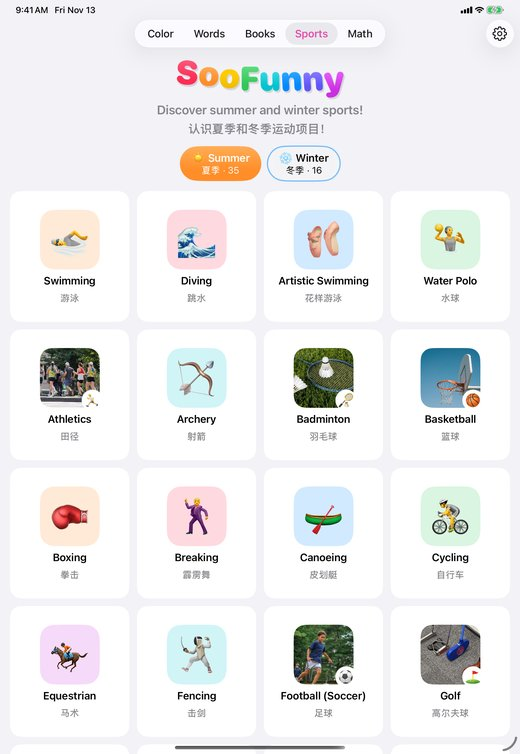
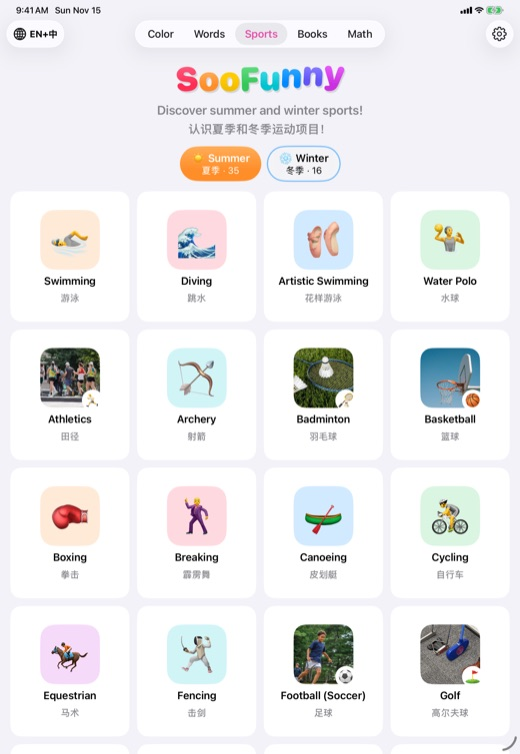
Refresh the README and screenshots for 0.4
- New screenshots in English, 中文 and Bilingual: Color, Words (iPad), Sports, the talking buddy
  on a sport (new), Books read aloud in both languages, Math in Chinese, and the iPad Sports grid.
- README: tab order (Sports before Books), developers and contact email, Bilingual books, the
  Sports buddy, Chinese listening without a keyboard, Settings → Language, and how to add
  Chinese words and book translations.
- "Talk about …" puts English and Chinese on separate lines in Bilingual, so the Chinese no
  longer breaks mid-word.

diff --git a/SooFunny/Words/WordsView.swift b/SooFunny/Words/WordsView.swift
@@ -208,8 +208,10 @@ private struct WordDetail: View {
                 Button {
                     path.append(AssistantRoute(category: route.category, index: index))
                 } label: {
-                    Label(language.pick("Talk about \(word.text)", "聊聊\(word.chinese ?? word.text)"), systemImage: "sparkles")
+                    Label(language.pick("Talk about \(word.text)", "聊聊\(word.chinese ?? word.text)", separator: "\n"),
+                          systemImage: "sparkles")
                         .font(.title3.weight(.bold))
+                        .multilineTextAlignment(.center)
                         .frame(maxWidth: 480, minHeight: 56)
                 }
                 .buttonStyle(.borderedProminent)

diff --git a/SooFunny/Sports/SportsView.swift b/SooFunny/Sports/SportsView.swift
@@ -216,7 +216,7 @@ private struct SportDetail: View {
                 .multilineTextAlignment(.center)
 
                 NavigationLink(value: SportTalkRoute(sport: sport)) {
-                    Label(language.pick("Talk about \(sport.english)", "聊聊\(sport.chinese)"), systemImage: "sparkles")
+                    Label(language.pick("Talk about \(sport.english)", "聊聊\(sport.chinese)", separator: "\n"), systemImage: "sparkles")
                         .font(.title3.weight(.bold))
                         .lineLimit(2)
                         .multilineTextAlignment(.center)

diff --git a/README.md b/README.md
@@ -24,15 +24,19 @@ photographs ever leaves the device.
 </p>
 
 <p align="center">
-  <img src="docs/images/iphone-color.jpg" width="190" alt="Color tab on iPhone: picture gallery with a Surprise me! button">
+  <img src="docs/images/iphone-color.jpg" width="190" alt="Color tab on iPhone in Bilingual: picture gallery with a Surprise me! 给我惊喜！ button">
   &nbsp;
-  <img src="docs/images/ipad-words.jpg" width="250" alt="Words tab on iPad: 32 word groups">
+  <img src="docs/images/ipad-words.jpg" width="250" alt="Words tab on iPad in Chinese: 32 word groups">
   &nbsp;
-  <img src="docs/images/iphone-books.jpg" width="190" alt="Books on iPhone: The Three Little Pigs read aloud, one word highlighted">
+  <img src="docs/images/iphone-sports.jpg" width="190" alt="Sports on iPhone in Bilingual: Swimming 游泳, a Talk about Swimming button, and swimmers racing down their lanes">
   &nbsp;
-  <img src="docs/images/iphone-sports.jpg" width="190" alt="Sports on iPhone: Swimming in English and Chinese, with swimmers racing down their lanes">
+  <img src="docs/images/iphone-buddy.jpg" width="190" alt="The talking buddy on Swimming in Bilingual: an answer in English and then Chinese, one word highlighted as it's read">
+</p>
+
+<p align="center">
+  <img src="docs/images/iphone-books.jpg" width="190" alt="Books on iPhone in Bilingual: The Three Little Pigs in English and Chinese, one word highlighted as it's read">
   &nbsp;
-  <img src="docs/images/iphone-math.jpg" width="190" alt="Math tab on iPhone: flashcards, quiz and progress reports">
+  <img src="docs/images/iphone-math.jpg" width="190" alt="Math tab on iPhone in Chinese: 闪卡游戏, 测验, 学习报告 and 数学设置">
 </p>
 
 <p align="center"><img src="docs/images/photo-to-page.jpg" width="900" alt="Photos of a goldfish, a parrot and a lighthouse next to the coloring pages SooFunny makes from them"></p>
@@ -41,7 +45,8 @@ photographs ever leaves the device.
 |---|---|
 | **Version** | 0.4 (build 9) in App Review; 0.3 (build 5) is [on the App Store](https://apps.apple.com/us/app/soofunny/id6827777441) |
 | **Platforms** | iPhone and iPad, iOS 17 or later, all orientations |
-| **Developer** | [Chengjiang Long](https://www.chengjianglong.com/) |
+| **Developers** | Chengjiang Long and Yao Xu |
+| **Contact** | [chengjiang.long@gmail.com](mailto:chengjiang.long@gmail.com) |
 | **Copyright** | © 2026 Soo X Intelligence LLC. All rights reserved. |
 
 ---
@@ -75,7 +80,7 @@ photographs ever leaves the device.
 - Covers the picture names on Color, all 754 words and 32 groups, every built-in book (each one
   is in both languages), the sports, math questions and cheers (numbers read as Chinese words),
   and the talking buddy, which answers and listens in the chosen language.
-- Sports read themselves aloud as soon as a sport opens: its name, then what it is.
+- The tabs are **Color, Words, Sports, Books and Math**.
 
 ### 🎨 Color
 
@@ -103,14 +108,14 @@ photographs ever leaves the device.
   516 of the 754 words also show a **real photo**, with the emoji stuck on its corner like a
   sticker. On the talking buddy screen, most of them show one or two more photos beside it. Words that can't be photographed well (numbers, feelings, time words) keep just the
   emoji.
-- A word page shows the word big, reads it aloud, lets kids tap each **letter** to hear it, and
-  has Previous / Next.
+- A word page shows the word big (English, Chinese, or English above Chinese), reads it aloud, lets
+  kids tap each **letter** or Chinese **character** to hear it, and has Previous / Next.
 - Tap a group to see its words; **Back** returns to the groups.
 
 ### ✨ Talking buddy
 
-Every word has a sparkle **Talk about it** button that opens a spoken conversation, inspired by
-the [Wonder Words Agent demo](https://www.youtube.com/shorts/ZAaAPILTohk):
+Every word and every sport has a sparkle **Talk about …** button that opens a spoken conversation,
+inspired by the [Wonder Words Agent demo](https://www.youtube.com/shorts/ZAaAPILTohk):
 
 1. The buddy explains the word in a sentence or two, then asks
    *"What would you like to know about lion?"*
@@ -120,29 +125,18 @@ the [Wonder Words Agent demo](https://www.youtube.com/shorts/ZAaAPILTohk):
 
 The big button follows the turn: **Talk**, **Done** (while listening), **Cancel** (while
 thinking) and **Stop speaking**. The answers come from **Qwen 2.5 1.5B**, running on the
-device. It talks in English, Chinese or both, following the language switch.
-
-### 📖 Books
-
-- **Story books**: 10 books, SooFunny's own short retellings of public-domain tales and rhymes, including The Three Little Pigs,
-  Goldilocks, The Gingerbread Man, nursery rhymes, and two in Chinese (唐诗五首 Tang Poems and
-  龟兔赛跑 The Tortoise and the Hare).
-- **Read aloud**: tap **Read to me** (读给我听 in Chinese books) and each page is read with the
-  current word lit up, turning pages by itself. Swipe or tap the arrows to turn pages by hand.
-- **My books**: **Scan a book** with the camera (one or many pages) or pick pages **From
-  Photos**. The text is read from each page on the device, in English, Chinese or a mix of both.
-  Before saving, grown-ups can fix the words, remove pages and **Change page order** by dragging.
-- **Mixed languages**: English parts are read in the natural voice and Chinese parts in Apple's
-  Chinese voice, one after another. Pinyin printed above the characters is skipped.
-- **Audiobooks**: **Make audiobook** records the whole book into an `.m4a` file to listen to
-  anytime or share.
+device. It talks in English, Chinese or both, following the language switch; in Bilingual every
+sentence comes in English and then Chinese, and **I speak English / 我说中文** picks the language it
+listens for. On a sport it's given that sport's introduction, so its answers match what the child
+just heard. Chinese listening needs no Chinese keyboard on iOS 26 and later: the app downloads
+Apple's Mandarin speech model the first time, then listens fully on the device.
 
 ### 🏅 Sports
 
 <p align="center">
   <img src="docs/images/sports-animations.gif" width="400" alt="Animations from the Sports tab: swimming, archery, gymnastics, figure skating, bobsleigh and ski jumping">
   &nbsp;
-  <img src="docs/images/ipad-sports.jpg" width="276" alt="Sports tab on iPad: Summer and Winter buttons above a grid of sports with English and Chinese names">
+  <img src="docs/images/ipad-sports.jpg" width="276" alt="Sports tab on iPad in Bilingual: Summer and Winter buttons above a grid of sports with English and Chinese names">
 </p>
 
 - **51 sports**: the 35 summer and 16 winter sports on the 2024 and 2026 Games programmes,
@@ -150,16 +144,35 @@ device. It talks in English, Chinese or both, following the language switch.
   listing don't name the Games, since App Review rejects unlicensed use of those trademarks;
   `SportsTests` checks for them.
 - Each sport has an emoji (and a real photo for 12 of them, shared with the Words tab), its
-  English and Chinese names, and a short introduction written for children in **both languages**.
+  English and Chinese names, and a short introduction written for children in **both languages**,
+  shown in English, Chinese or both.
 - **Watch it! 看一看！** plays a looping animation of each sport: swimmers racing down their
   lanes, a diver flipping into the pool, an arrow flying into the target, a bobsled racing down the
   ice chute, and so on. Tap pause to stop it; it starts paused when Reduce Motion is on.
-- Under **What is it?**, **Read to me** reads the English in the natural voice, and under
-  **这是什么运动？**, **读给我听** reads the Chinese in Apple's Chinese voice, each word lighting up
-  as it's read. Tap a name to hear it, and Previous / Next move through the sports.
+- **Reads itself aloud**: opening a sport (or Previous / Next) says its name and then reads what
+  it is, with each word lighting up; in Bilingual, English and then Chinese. The speaker button
+  hears it all again.
+- **Talk about …** opens the talking buddy for that sport, so children can ask anything about it.
 - The sports are in `SooFunny/Sports/OlympicSports.swift` and their animations in `SportDemos.swift`
   (a scene from `DemoScenes.swift` plus emoji and balls moving along keyframed paths, drawn by
   `SportDemo.swift`). The whole tab is free.
+
+### 📖 Books
+
+- **Story books**: 10 books, SooFunny's own short retellings of public-domain tales and rhymes, including The Three Little Pigs,
+  Goldilocks, The Gingerbread Man, nursery rhymes, and two first written in Chinese (唐诗五首 Tang
+  Poems and 龟兔赛跑 The Tortoise and the Hare). **Every book is in both languages**, page by page,
+  and follows the language switch (the reader has its own globe button).
+- **Read aloud**: tap **Read to me · 读给我听** and each page is read with the current word lit up,
+  turning pages by itself; in Bilingual, the English and then the Chinese. Swipe or tap the arrows
+  to turn pages by hand.
+- **My books**: **Scan a book** with the camera (one or many pages) or pick pages **From
+  Photos**. The text is read from each page on the device, in English, Chinese or a mix of both.
+  Before saving, grown-ups can fix the words, remove pages and **Change page order** by dragging.
+- **Mixed languages**: English parts are read in the natural voice and Chinese parts in Apple's
+  Chinese voice, one after another. Pinyin printed above the characters is skipped.
+- **Audiobooks**: **Make audiobook** records the whole book into an `.m4a` file to listen to
+  anytime or share.
 
 ### ➕ Math
 
@@ -186,6 +199,7 @@ the app uses an Apple voice automatically.
 
 ### ⚙ Settings
 
+- **Language 语言**: English, 中文 or Bilingual 双语 for every tab.
 - **Support SooFunny**: **Leave a tip**. The App Store's purchase sheet asks for Face ID or the
   password, so there's no extra grown-up check.
 - **Reading voice**: the voice, its speed (default about 1.05×) and a **Try the voice** button.
@@ -438,15 +452,15 @@ SooFunny/
     SubjectMask.swift                Apple Vision subject detection
     ImageSegmenter.swift             Picture → blocks and outlines, and the renderer
     ColoringSession.swift            Fill colors, undo, Magic / Real / Clear
-  Views/                           Color tab, coloring screen, Settings, shared title
+  Views/                           Color tab, coloring screen, Settings, the language switch, shared title
   Showcase/                        Gallery photos (CC0), credits.json and the gallery model
   Samples/SampleArt.swift          Built-in drawings, drawn in code
   Words/                           Word list (kids_words.txt), word browser, Speech
   Words/Photos/                    Word photos (CC0 / public domain) and word_photo_credits.json
-  Assistant/                       Talking buddy: Qwen via llama.cpp, listening, prompts
+  Assistant/                       Talking buddy: Qwen via llama.cpp, listening (Chinese via SpeechAnalyzer), prompts
   Voice/                           Natural voice: phonemizer, Kokoro via ONNX Runtime, player
     Resources/                       Pronunciation dictionary, phoneme table, Heart voice
-  Books/                           Story books, scanning and text recognition, the reader, audiobooks
+  Books/                           Story books and their translations, scanning and text recognition, the reader, audiobooks
   Math/                            Question maker, sessions, progress, and the Math screens
   Sports/                          Summer and winter sports in English and Chinese, and the Sports screens
   Store/                           Tip jar, Support screen, grown-up check, .storekit
@@ -471,9 +485,10 @@ project.yml                        XcodeGen project definition
 ## Changing content
 
 - **Words:** edit `SooFunny/Words/kids_words.txt`. It has blank-line-separated sections, each
-  starting with `Category: <name> | <emoji>`, then one word per line with an optional
-  `| <emoji>`. Run the tests afterwards; they check the format and that every word can be
-  spoken.
+  starting with `Category: <name> | <emoji> | <Chinese>`, then one word per line as
+  `word | <emoji> | <Chinese>` (leave the emoji empty, `hay |  | 干草`, when there's none). Run the
+  tests afterwards; they check the format, that every word has its Chinese, and that every word
+  can be spoken.
 - **Gallery photos:** add a JPEG (about 1024 px) to `SooFunny/Showcase/` named
   `<group>-<name>.jpg`, and add an entry with title, author, license and source URL to
   `credits.json`. Use only photos you're allowed to bundle (the current set is all CC0). Check
@@ -486,7 +501,9 @@ project.yml                        XcodeGen project definition
   every photo by eye: search results include unsuitable pictures.
 - **Story books:** edit `StoryLibrary` in `SooFunny/Books/StoryBooks.swift`. Each book has an
   id, title, cover emoji, color and pages (an emoji scene and the text); set `language: .chinese`
-  for a Chinese book. Use only text you're allowed to share.
+  for a Chinese book. Add the book's other language, page by page, to
+  `SooFunny/Books/StoryTranslations.swift` (`LanguageTests` checks every page has one). Use only
+  text you're allowed to share.
 - **App icon:** replace `design/soo-icon.png`, then run `python3 scripts/make_icon.py`.
 - **Pronunciation dictionary:** to rebuild it from newer misaki data, run
   `python3 scripts/build_voice_lexicon.py <folder with us_gold.json, us_silver.json, tokenizer.json>`.
